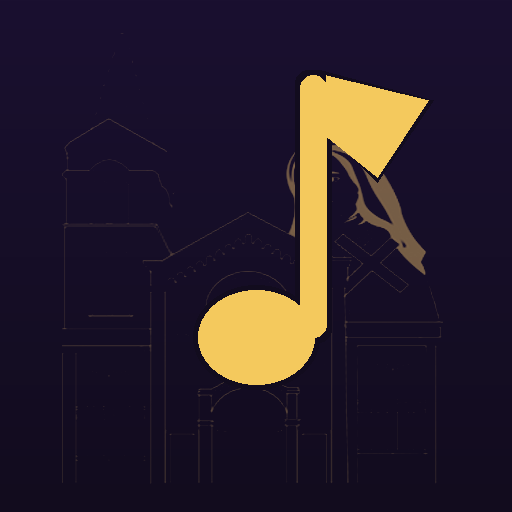
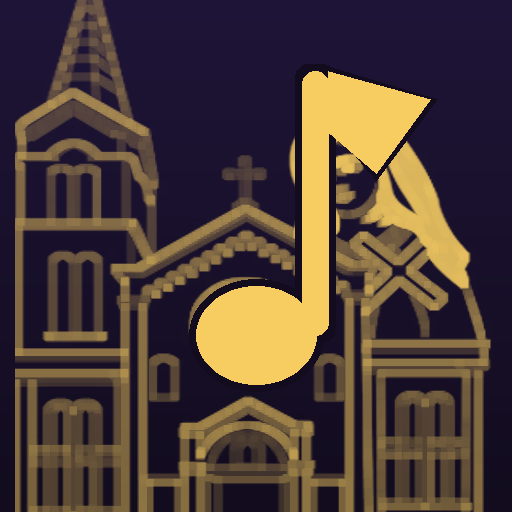
Icone com igreja mais visivel + og:image (cartao de compartilhamento) + cache-bust

diff --git a/index.html b/index.html
@@ -5,9 +5,16 @@
 <meta name="viewport" content="width=device-width, initial-scale=1, viewport-fit=cover" />
 <title>Repertório da Missa · Paróquia Santa Terezinha</title>
 <meta name="theme-color" content="#120c1e" />
+ <meta property="og:title" content="Repertório da Missa · Paróquia Santa Teresinha" />
+ <meta property="og:description" content="Cifras, agenda e repertório da Paróquia Santa Teresinha." />
+ <meta property="og:image" content="https://thiago-fgvadvs.github.io/missa-santa-terezinha/og.png?v=1" />
+ <meta property="og:type" content="website" />
+ <meta name="twitter:card" content="summary_large_image" />
+ <meta name="twitter:image" content="https://thiago-fgvadvs.github.io/missa-santa-terezinha/og.png?v=1" />
+
 <link rel="manifest" href="manifest.webmanifest" />
-<link rel="apple-touch-icon" href="icon-192.png?v=2" />
-<link rel="icon" href="icon-192.png?v=2" />
+<link rel="apple-touch-icon" href="icon-192.png?v=3" />
+<link rel="icon" href="icon-192.png?v=3" />
 <meta name="apple-mobile-web-app-capable" content="yes" />
 <meta name="apple-mobile-web-app-status-bar-style" content="black-translucent" />
 <meta name="apple-mobile-web-app-title" content="Missa ST" />